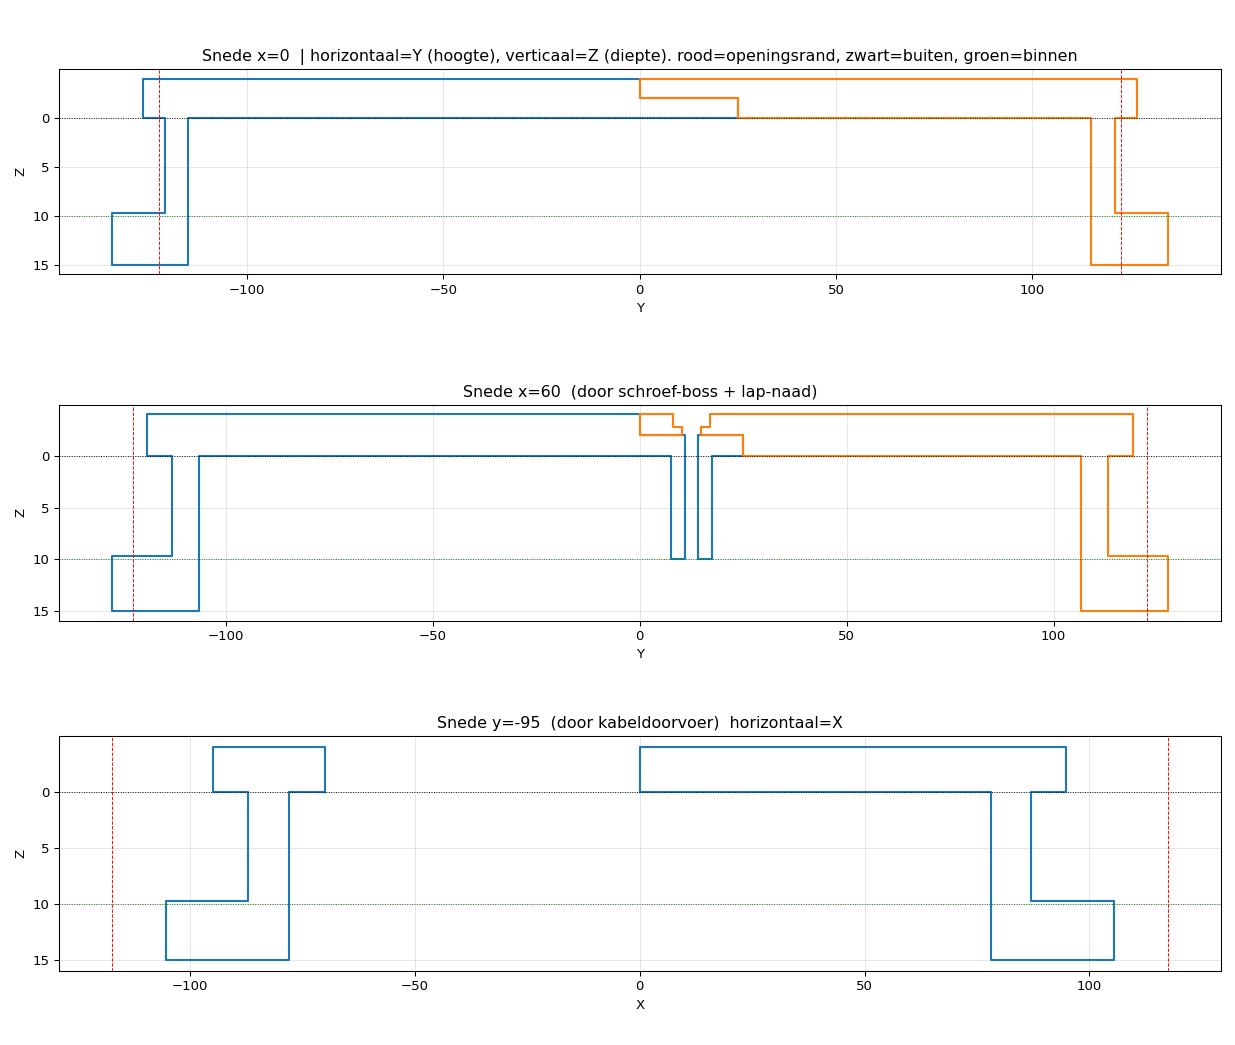
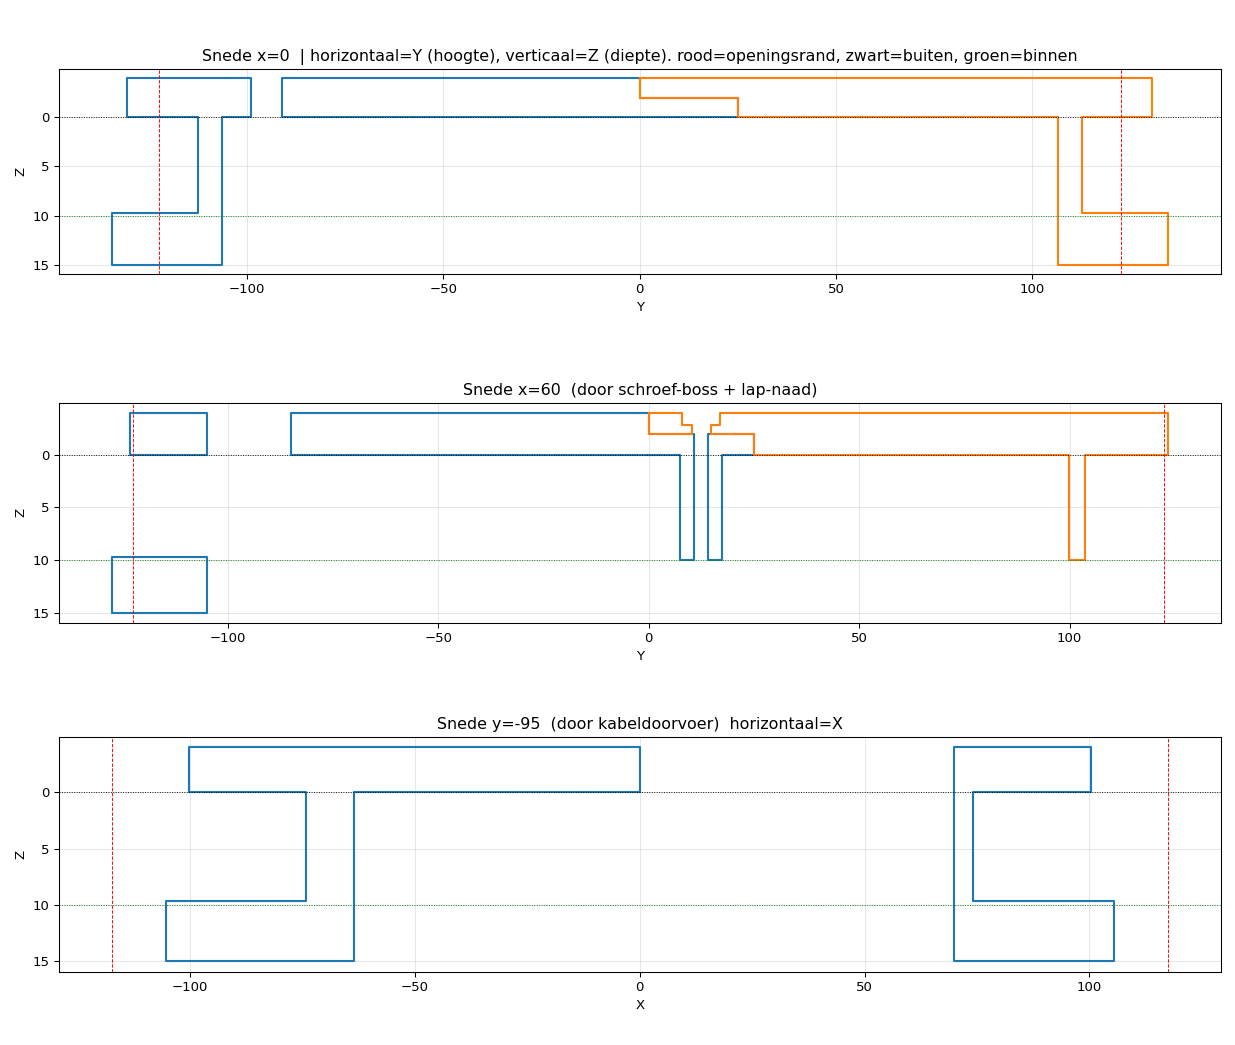
v7 sync: flens 251mm (+1,6cm), insteek 1cm marge; relatieve paden

diff --git a/render.py b/render.py
@@ -18,8 +18,8 @@ def setlims(ax, meshes):
     ax.set_xlim(c[0]-r, c[0]+r); ax.set_ylim(c[1]-r, c[1]+r); ax.set_zlim(c[2]-r, c[2]+r)
     ax.set_box_aspect((1,1,1))
 
-onder = trimesh.load("/home/claude/bkos-afdekplaat/afdekplaat_onder.stl")
-boven = trimesh.load("/home/claude/bkos-afdekplaat/afdekplaat_boven.stl")
+onder = trimesh.load("afdekplaat_onder.stl")
+boven = trimesh.load("afdekplaat_boven.stl")
 
 views = [
     ("buiten",  (20, -90)),   # van buitenaf (kijkt op de flens, -Z kant)
@@ -33,7 +33,7 @@ for naam, (el, az) in views:
     add(ax, onder, (0.30,0.45,0.75)); add(ax, boven, (0.80,0.55,0.25))
     setlims(ax, [onder, boven]); ax.view_init(elev=el, azim=az)
     ax.set_title(f"Geassembleerd - {naam}"); ax.set_xlabel("X"); ax.set_ylabel("Y"); ax.set_zlabel("Z")
-    fig.tight_layout(); fig.savefig(f"/home/claude/bkos-afdekplaat/preview_{naam}.png", dpi=90); plt.close(fig)
+    fig.tight_layout(); fig.savefig(f"preview_{naam}.png", dpi=90); plt.close(fig)
 
 # 2) Exploded (bovendeel naar +Y en boven onderdeel uit elkaar) + losse delen
 fig = plt.figure(figsize=(8,8)); ax = fig.add_subplot(111, projection="3d")
@@ -41,12 +41,12 @@ bov2 = boven.copy(); bov2.apply_translation([0, 60, 0])
 add(ax, onder, (0.30,0.45,0.75)); add(ax, bov2, (0.80,0.55,0.25))
 setlims(ax, [onder, bov2]); ax.view_init(elev=26, azim=-60)
 ax.set_title("Exploded"); fig.tight_layout()
-fig.savefig("/home/claude/bkos-afdekplaat/preview_exploded.png", dpi=90); plt.close(fig)
+fig.savefig("preview_exploded.png", dpi=90); plt.close(fig)
 
 # 3) Doorsnede-achtig: onderdeel van binnen (haak + rand + boss)
 fig = plt.figure(figsize=(8,8)); ax = fig.add_subplot(111, projection="3d")
 add(ax, onder, (0.30,0.45,0.75))
 setlims(ax, [onder]); ax.view_init(elev=22, azim=70)
 ax.set_title("Onderdeel - binnenzijde (haak/rand/boss)"); fig.tight_layout()
-fig.savefig("/home/claude/bkos-afdekplaat/preview_onder_binnen.png", dpi=90); plt.close(fig)
+fig.savefig("preview_onder_binnen.png", dpi=90); plt.close(fig)
 print("renders klaar")

diff --git a/afdekplaat.py b/afdekplaat.py
@@ -30,7 +30,7 @@ WAND      = 10.0    # dikte van het schot (buiten -> binnen)
 
 MARGE     = 10.0    # speling rondom de insteek in het gat (PER ZIJDE) - handzaag, ruim genomen
 
-FLENS_OVER = 4.0    # hoeveel de buitenflens over de rand grijpt (rondom) -> bepaalt buitenmaat
+FLENS_OVER = 8.0    # flens grijpt 8 mm over de rand -> flens 1,6 cm groter dan gat (buitenmaat 251)
 FLENS_DIK  = 4.0    # dikte van de buitenflens (de zichtbare plaat)
 
 RAND_DIK   = 3.5    # wanddikte van de insteekrand (in het gat)
@@ -213,8 +213,8 @@ if __name__ == "__main__":
     import sys
     onder = maak_onder()
     boven = maak_boven()
-    onder.export("/home/claude/bkos-afdekplaat/afdekplaat_onder.stl")
-    boven.export("/home/claude/bkos-afdekplaat/afdekplaat_boven.stl")
+    onder.export("afdekplaat_onder.stl")
+    boven.export("afdekplaat_boven.stl")
     for naam, m in (("ONDER", onder), ("BOVEN", boven)):
         print(f"{naam}: watertight={m.is_watertight} volume={m.volume/1000:.1f} cm3 "
               f"bbox={np.round(m.extents,1)} tris={len(m.faces)}")

diff --git a/snede.py b/snede.py
@@ -4,8 +4,8 @@ matplotlib.use("Agg")
 import matplotlib.pyplot as plt
 import numpy as np, trimesh
 
-onder = trimesh.load("/home/claude/bkos-afdekplaat/afdekplaat_onder.stl")
-boven = trimesh.load("/home/claude/bkos-afdekplaat/afdekplaat_boven.stl")
+onder = trimesh.load("afdekplaat_onder.stl")
+boven = trimesh.load("afdekplaat_boven.stl")
 WAND=10.0; OPEN_H=245.0; OPEN_B=235.0
 
 def yz(mesh, x):
@@ -49,5 +49,5 @@ ax.set_title("Snede y=-95  (door kabeldoorvoer)  horizontaal=X")
 ax.set_xlabel("X"); ax.set_ylabel("Z"); ax.invert_yaxis(); ax.grid(alpha=.3)
 ax.set_aspect(2.5)
 
-fig.tight_layout(); fig.savefig("/home/claude/bkos-afdekplaat/sneden.png", dpi=95); plt.close(fig)
+fig.tight_layout(); fig.savefig("sneden.png", dpi=95); plt.close(fig)
 print("sneden klaar")